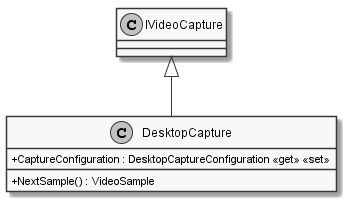
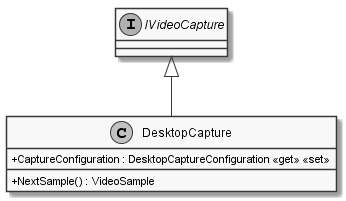
Fix typos, fix interface types in UML, some formatting

Changed region(s): [[0.3179, 0.0299, 0.6936, 0.2985]]

diff --git a/documents/sd/chapter/Classes/Core/MORR/Data/Transcoding/WinAPI/WinAPI_Transcoding.tex b/documents/sd/chapter/Classes/Core/MORR/Data/Transcoding/WinAPI/WinAPI_Transcoding.tex
@@ -14,7 +14,7 @@
     \end{attributes}
 
     \begin{methods}
-        \begin{method}{public void Encode()}{Encodes all provided sample to a file at the location specified by the configuration.}
+        \begin{method}{public void Encode()}{Encodes all provided samples to a file at the location specified by the configuration.}
             \begin{exceptions}
                 \excp{EncodingException}{Exception thrown if the encoding fails. This may be a MetadataEncodingException or a VideoEncodingException.}
             \end{exceptions}
@@ -43,7 +43,7 @@
             \end{parameters}
         \end{method}
     \end{methods}
-\end{class}{MPEGEncoderConfiguration}
+\end{class}
 
 \begin{class}{MPEGDecoder}
     \clsdiagram[width=0.7\textwidth]{resources/Classes/Core/MORR/Transcoding/WinAPI/MPEGDecoder.png}

diff --git a/documents/sd/chapter/Classes/Core/MORR/Data/Capture/Capture.tex b/documents/sd/chapter/Classes/Core/MORR/Data/Capture/Capture.tex
@@ -109,7 +109,7 @@
             \end{parameters}
             \return{IDirect3DDevice}{The created device.}
         \end{method}
-        \begin{method}{public static IDirect3DSurface CreateDirect3DSurfaceFromSharpDXTexture(Texture2D texture)}{Creates a IDirect3DSurface from a SharpDX texture.}
+        \begin{method}{public static IDirect3DSurface \\CreateDirect3DSurfaceFromSharpDXTexture(Texture2D texture)}{Creates a IDirect3DSurface from a SharpDX texture.}
             \begin{parameters}
                 \para{Texture2D texture}{The SharpDX texture to convert.}
             \end{parameters}

diff --git a/documents/sd/chapter/Classes/Core/MORR/Data/Transcoding/Transcoding.tex b/documents/sd/chapter/Classes/Core/MORR/Data/Transcoding/Transcoding.tex
@@ -16,7 +16,7 @@
     \end{attributes}
 
     \begin{methods}
-        \begin{method}{void EncodeTo(string path)}{Encodes all provided sample to a file at the specified location.}
+        \begin{method}{void EncodeTo(string path)}{Encodes all provided samples to a file at the specified location.}
             \begin{parameters}
                 \para{string path}{The path to encode to.}
             \end{parameters}
